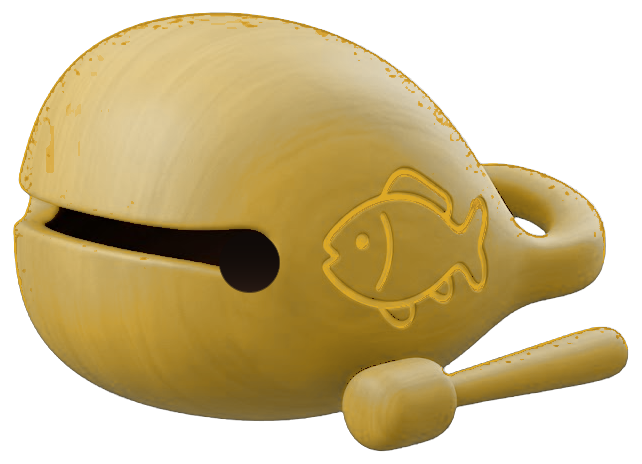
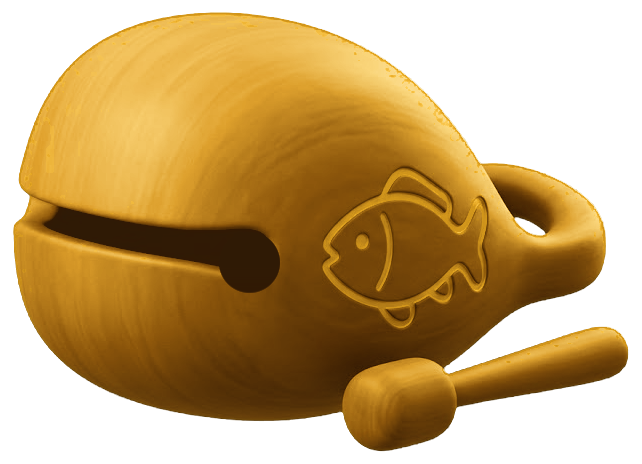
목탁 금·옥을 원본에서 다시 뽑는다 — 모양은 그대로
형: 「목탁 원래 실루엣은 유지해」 「모양 자체를 바꾸진 말라고, 디자인만
     바꾸고」

제미나이로 금·옥 목탁을 새로 그렸더니 물건이 딴것이 됐다. 우리 목탁은
이미 형이 인정한 실루엣이다. 그래서 **그 그림에서 뽑는다** — 넉 벌이
한 화소도 다르지 않은 같은 실루엣을 쓰고, 바뀌는 것은 재질뿐이다.

채도만 돌리는 법은 두 번 다 실패했다 —
 · 채도를 깔면 누런 레몬색(형: 「싸구려 레몬색」)
 · 채도만 올리면 나무 질감이 남는다(형: 「금이랑 옥은 나무 질감 아니야」)

재질은 색이 아니라 **명암의 결**이다. 색칠하지 않고 명암을 갈아 끼운다
(gradient map) — 원본의 밝기를 읽어 그 재질의 어두움·중간·밝음 사이에
앉힌다. 나뭇결 얼룩은 밝기에 실려 있으니 결은 남고 재질만 바뀐다.
 · 금 — 대비를 올린다(금속은 빛과 그늘의 차가 크다). 그늘은 깊은 호박,
   빛은 거의 흰 금.
 · 옥 — 처음엔 대비를 내렸더니 돌이 아니라 칠한 플라스틱이 됐다. 옥이
   부드러운 것은 대비가 없어서가 아니라 그늘이 초록빛을 머금기 때문이다.
   대비는 되돌리고 그늘을 깊은 청록, 빛을 젖빛으로.

그림 이름이 같으므로 폰이 옛것을 물고 있다 — 캐시 번호를 5 로 올린다.

diff --git a/src/app/moktak/page.tsx b/src/app/moktak/page.tsx
@@ -132,7 +132,7 @@ const PRACTICE_TABS: readonly PracticeTab[] = ["moktak", "yeomju", "bowl", "keyc
 /** 그림 판 번호 — 그림을 고쳐 올려도 **파일 이름이 같으면** 브라우저가
     옛 것을 그대로 쥐고 있다. 형이 「아직 진하다」고 한 게 그것이었다.
     고칠 때마다 이 수를 올리면 새 그림으로 갈린다. */
-const 그림판 = 4;
+const 그림판 = 5;
 const 그림 = (s: string) => `${s}?v=${그림판}`;
 
 const SKINS = {
